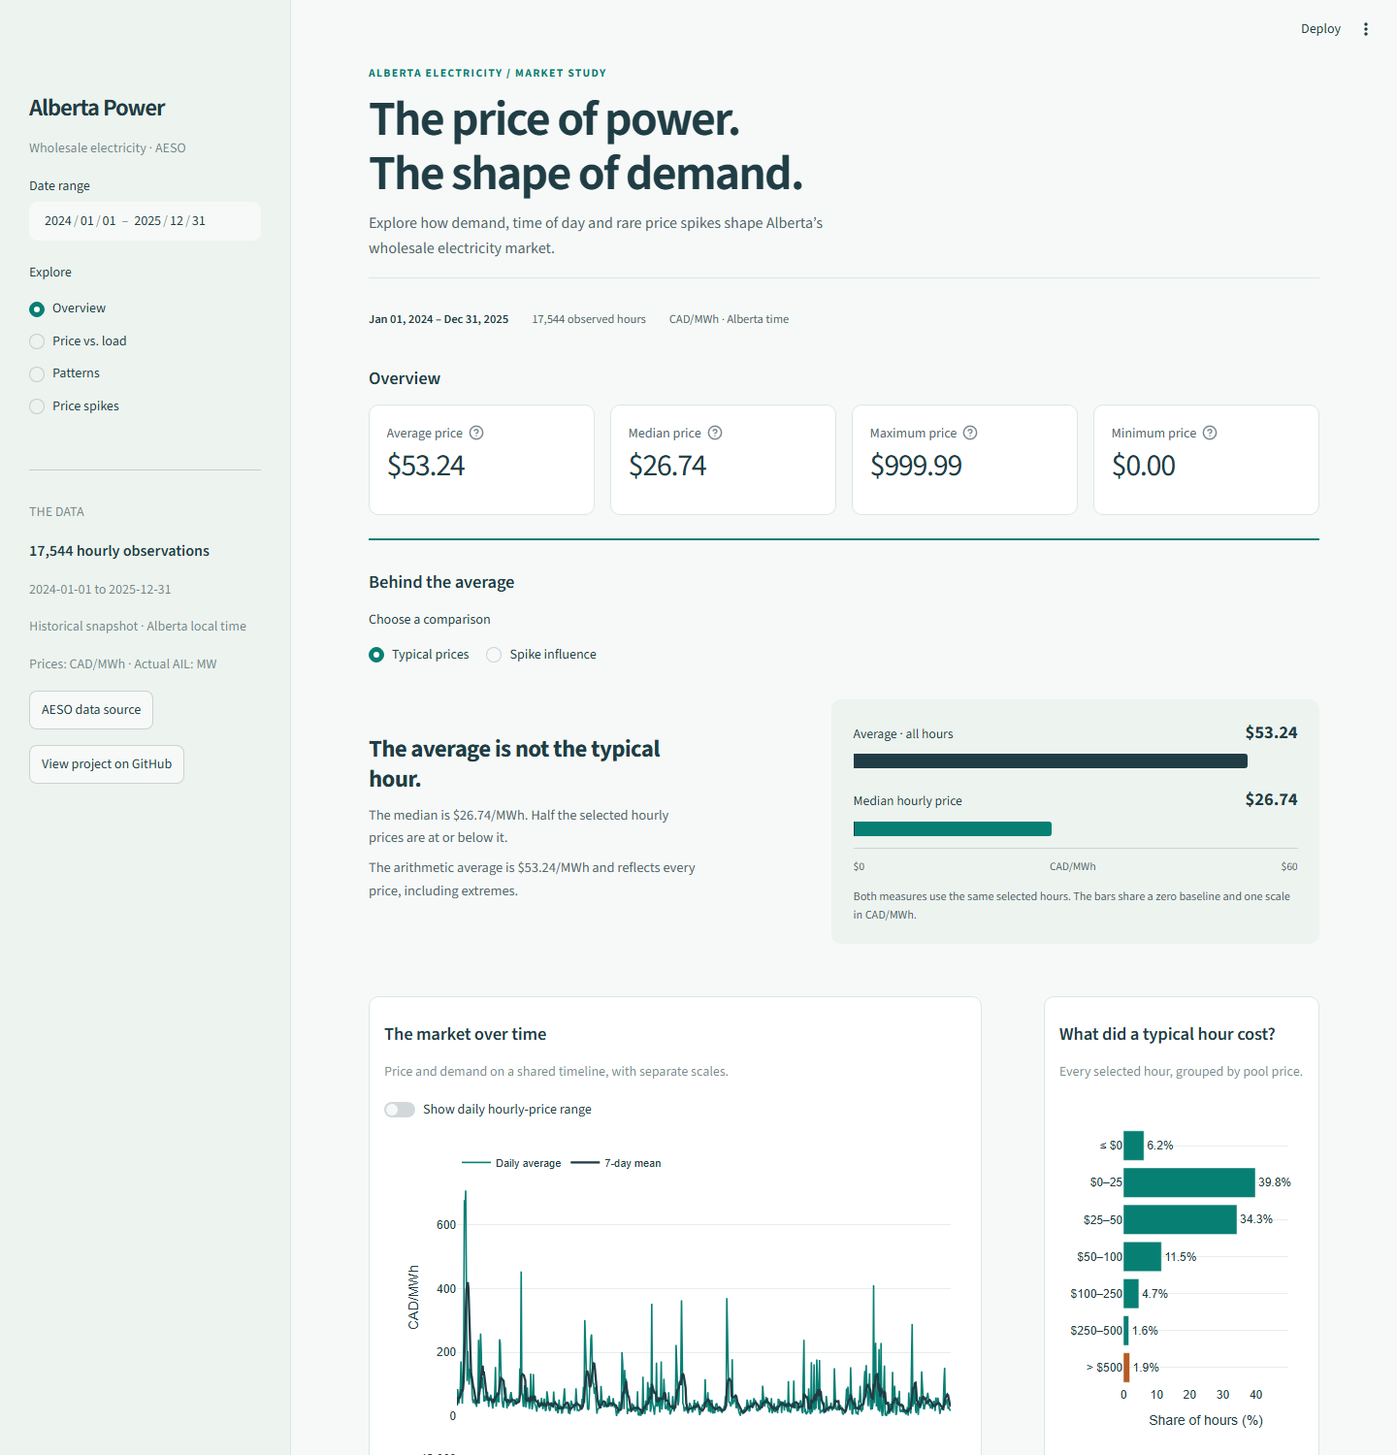
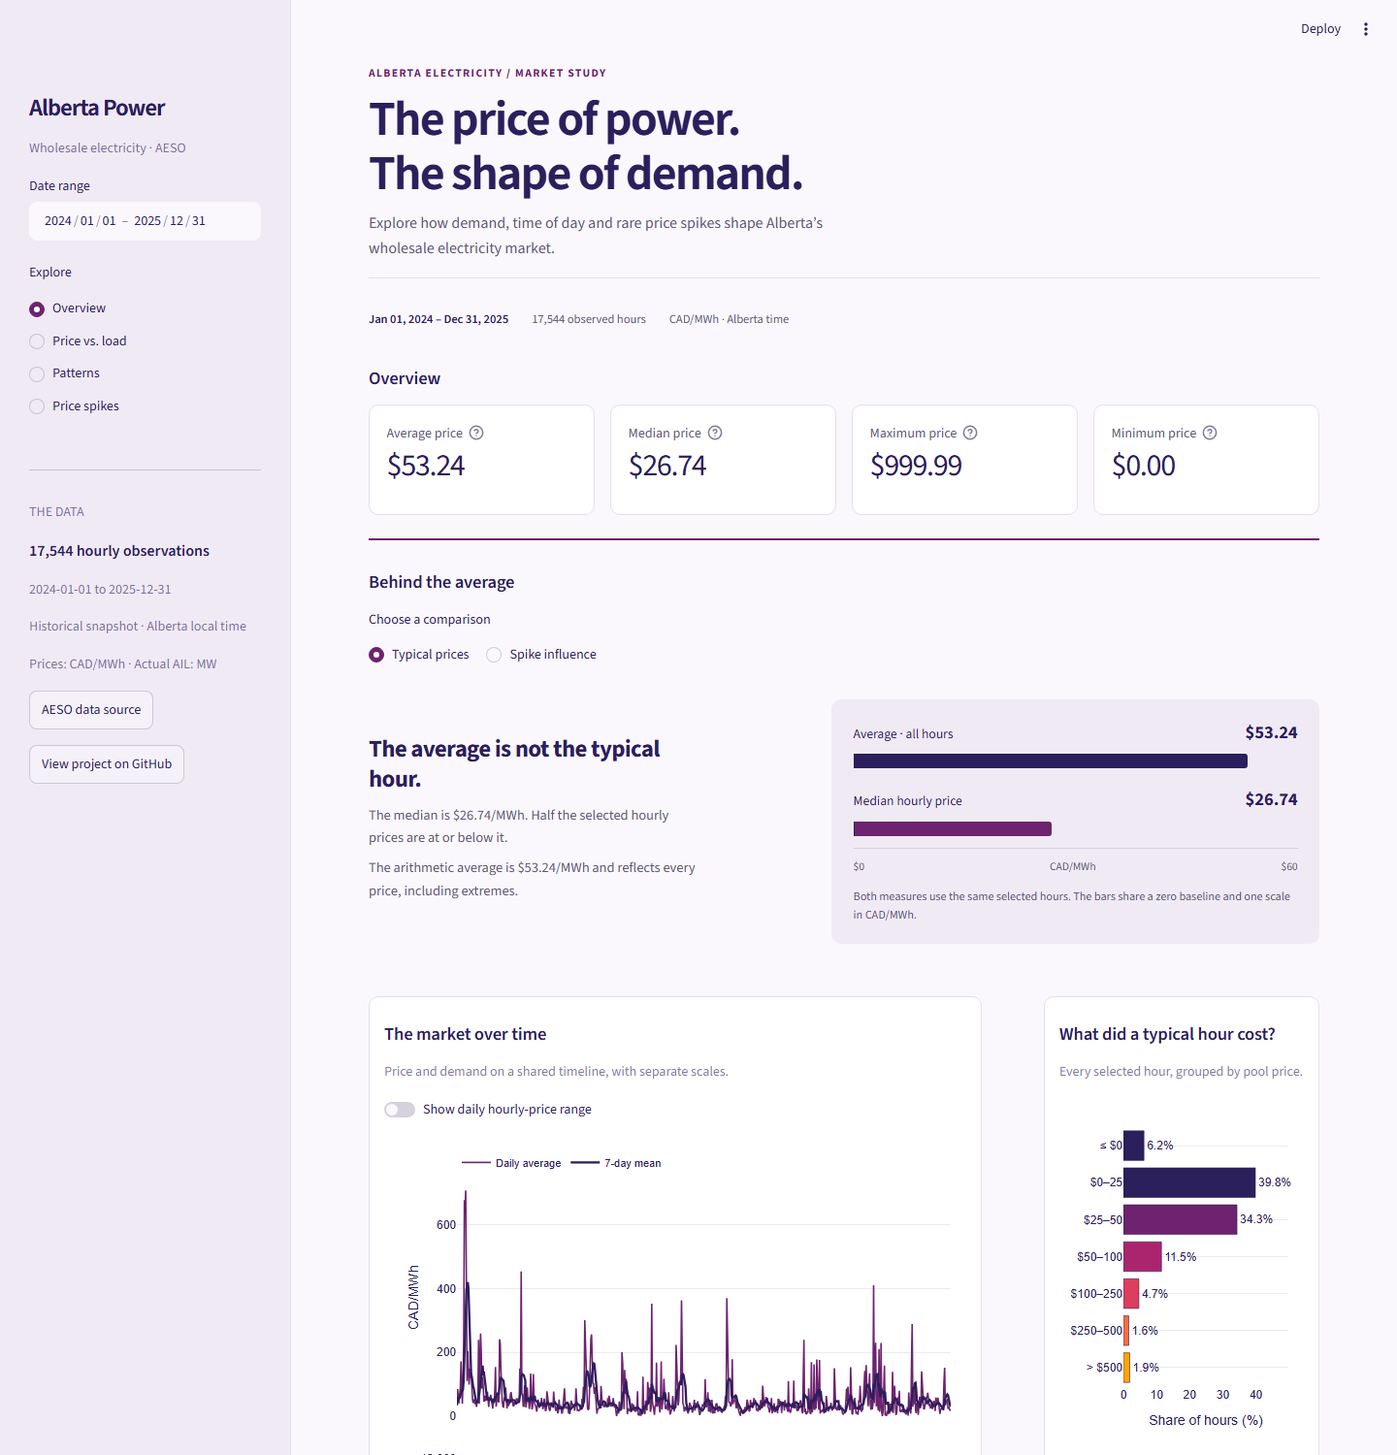
Apply purple-to-orange palette with accessible chart encodings

diff --git a/assets/style.css b/assets/style.css
@@ -1,9 +1,9 @@
 /* Streamlit-native presentation; no external fonts or JavaScript dependencies. */
-:root { --ink: #203d45; --accent: #087f73; --muted: #50686d; --line: #dbe7e2; --spike: #a84e1c; }
-.stApp { background: #f6f9f7; }
-[data-testid="stHeader"] { background: rgba(246,249,247,.96); }
+:root { --ink: #2b1f5c; --accent: #6d236f; --muted: #625575; --line: #e5deec; --spike: #ffa600; }
+.stApp { background: #faf8fc; }
+[data-testid="stHeader"] { background: rgba(250,248,252,.96); }
 [data-testid="stMainBlockContainer"] { max-width: 1500px; padding-top: 3.8rem; padding-bottom: 2rem; }
-[data-testid="stSidebar"] { background: #edf3ef; border-right: 1px solid var(--line); }
+[data-testid="stSidebar"] { background: #f0eaf5; border-right: 1px solid var(--line); }
 [data-testid="stSidebar"] h1 { font-size: 1.55rem; letter-spacing: -.04em; }
 [data-testid="stSidebar"] [data-testid="stRadio"] label { padding: .35rem 0; }
 h1, h2, h3 { color: var(--ink); letter-spacing: -.035em; }
@@ -19,7 +19,7 @@ h3 { font-size: 1.15rem !important; }
 [data-testid="stMetricLabel"] { color: var(--muted); font-size: .8rem; }
 [data-testid="stMetricValue"] { color: var(--ink); font-variant-numeric: tabular-nums; font-size: 2rem; letter-spacing: -.04em; }
 [data-testid="stVerticalBlock"]:has(> [data-testid="stElementContainer"] > [data-testid="stFullScreenFrame"] > [data-testid="stPlotlyChart"]) { background: #fff; border-color: var(--line); border-radius: 10px; }
-.finding { border-left: 3px solid var(--accent); padding: .8rem 1rem; margin: .25rem 0 .7rem; background: #eaf3ee; border-radius: 0 8px 8px 0; }
+.finding { border-left: 3px solid var(--accent); padding: .8rem 1rem; margin: .25rem 0 .7rem; background: #f0eaf5; border-radius: 0 8px 8px 0; }
 .finding p { margin: 0; font-size: .9rem; line-height: 1.65; color: var(--ink); }
 .finding strong { font-weight: 650; }
 .notes { display: grid; grid-template-columns: 1fr 1fr; gap: 0 2rem; }
@@ -31,7 +31,7 @@ h3 { font-size: 1.15rem !important; }
 .price-story { display: grid; grid-template-columns: 1fr 1.15fr; gap: 2.5rem; align-items: center; padding: .6rem 0 .4rem; }
 .story-copy h3 { font-size: 1.55rem !important; line-height: 1.25; letter-spacing: -.025em; padding: 0; margin: 0 0 .7rem; max-width: 26ch; }
 .story-copy p { color: var(--muted); font-size: .9rem; line-height: 1.6; margin: .5rem 0; max-width: 48ch; }
-.story-comparison { margin: 0; padding: 1.25rem 1.4rem; background: #edf3ef; border-radius: 10px; }
+.story-comparison { margin: 0; padding: 1.25rem 1.4rem; background: #f0eaf5; border-radius: 10px; }
 .story-row + .story-row { margin-top: 1.1rem; }
 .story-row-label { display: flex; justify-content: space-between; align-items: baseline; gap: 1rem; color: var(--ink); font-size: .85rem; margin-bottom: .45rem; }
 .story-row-label strong { font-size: 1.15rem; font-variant-numeric: tabular-nums; white-space: nowrap; }
@@ -39,8 +39,8 @@ h3 { font-size: 1.15rem !important; }
 .story-bar { display: block; height: 100%; border-radius: 0 3px 3px 0; }
 .story-bar--average { background: var(--ink); }
 .story-bar--typical { background: var(--accent); }
-.story-bar--spike { background: repeating-linear-gradient(135deg, #a84e1c 0, #a84e1c 5px, #873e16 5px, #873e16 7px); }
-.story-axis { display: flex; justify-content: space-between; color: var(--muted); font-size: .72rem; padding-top: .55rem; border-top: 1px solid #cad8d0; margin-top: .8rem; }
+.story-bar--spike { background: repeating-linear-gradient(135deg, #ffa600 0, #ffa600 5px, #2b1f5c 5px, #2b1f5c 7px); }
+.story-axis { display: flex; justify-content: space-between; color: var(--muted); font-size: .72rem; padding-top: .55rem; border-top: 1px solid #d7cce3; margin-top: .8rem; }
 .story-comparison figcaption { color: var(--muted); font-size: .76rem; line-height: 1.55; margin-top: .8rem; }
 @media (max-width: 767px) {
   [data-testid="stMainBlockContainer"] { padding: 3.8rem 1rem 1.6rem; }

diff --git a/src/charts.py b/src/charts.py
@@ -8,12 +8,12 @@ from plotly.subplots import make_subplots
 
 from src.analysis import daily_market, demand_bands, monthly_spikes, patterns, price_duration, relationship
 
-TEAL = "#087f73"
-INK = "#203d45"
-MUTED = "#60777c"
-AMBER = "#b65b22"
-PALE = "#d7ebe6"
-GRID = "#e6eeeb"
+PRIMARY = "#6d236f"
+INK = "#2b1f5c"
+MUTED = "#625575"
+SPIKE = "#ffa600"
+PRICE_SCALE = ["#2b1f5c", "#6d236f", "#ab256e", "#dd3e5d", "#fb6d3e", "#ffa600"]
+GRID = "#eee8f3"
 
 
 def style(fig, height=380):
@@ -23,7 +23,7 @@ def style(fig, height=380):
                       margin=dict(l=12, r=16, t=30, b=20),
                       legend=dict(orientation="h", y=1.12, x=0, font=dict(size=11)),
                       hoverlabel=dict(bgcolor="white", font_color=INK),
-                      colorway=[TEAL, AMBER, MUTED], dragmode=False)
+                      colorway=[PRIMARY, SPIKE, MUTED], dragmode=False)
     fig.update_xaxes(showgrid=False, zeroline=False, automargin=True)
     fig.update_yaxes(gridcolor=GRID, zeroline=False, automargin=True)
     return fig
@@ -34,9 +34,9 @@ def market_timeline(data, show_range=True):
     fig = make_subplots(rows=2, cols=1, shared_xaxes=True, vertical_spacing=0.1, row_heights=[0.70, 0.30])
     if show_range:
         fig.add_trace(go.Scatter(x=daily.date, y=daily.low, line=dict(width=0), showlegend=False, hoverinfo="skip"), row=1, col=1)
-        fig.add_trace(go.Scatter(x=daily.date, y=daily.high, fill="tonexty", fillcolor="rgba(8,127,115,0.10)",
+        fig.add_trace(go.Scatter(x=daily.date, y=daily.high, fill="tonexty", fillcolor="rgba(109,35,111,0.10)",
                                  line=dict(width=0), name="Hourly range", hovertemplate="Daily high: $%{y:.2f}<extra></extra>"), row=1, col=1)
-    fig.add_trace(go.Scatter(x=daily.date, y=daily["mean"], name="Daily average", line=dict(color=TEAL, width=1.6), hovertemplate="$%{y:.2f}/MWh<extra>Daily average</extra>"), row=1, col=1)
+    fig.add_trace(go.Scatter(x=daily.date, y=daily["mean"], name="Daily average", line=dict(color=PRIMARY, width=1.6), hovertemplate="$%{y:.2f}/MWh<extra>Daily average</extra>"), row=1, col=1)
     fig.add_trace(go.Scatter(x=daily.date, y=daily["rolling"], name="7-day mean", line=dict(color=INK, width=2.3), hovertemplate="$%{y:.2f}/MWh<extra>7-day mean</extra>"), row=1, col=1)
     fig.add_trace(go.Scatter(x=daily.date, y=daily.load, name="Daily AIL", line=dict(color=MUTED, width=1.5), showlegend=False,
                              hovertemplate="%{y:,.0f} MW<extra>Daily average load</extra>"), row=2, col=1)
@@ -54,7 +54,7 @@ def distribution(data):
     labels = ["≤ $0", "$0–25", "$25–50", "$50–100", "$100–250", "$250–500", "> $500"]
     counts = pd.cut(p, bins=bins, labels=labels).value_counts(sort=False)
     share = counts / len(data) * 100
-    fig = go.Figure(go.Bar(x=share, y=labels, orientation="h", marker_color=[AMBER if i == 6 else TEAL for i in range(7)],
+    fig = go.Figure(go.Bar(x=share, y=labels, orientation="h", marker=dict(color=[PRICE_SCALE[max(0, i - 1)] for i in range(7)], line=dict(color=INK, width=0.6)),
                            text=[f"{v:.1f}%" for v in share], textposition="outside", cliponaxis=False,
                            customdata=counts, hovertemplate="%{y}/MWh<br>%{customdata:,} hours · %{x:.2f}%<extra></extra>"))
     fig.update_yaxes(autorange="reversed")
@@ -65,11 +65,11 @@ def distribution(data):
 def price_load(data):
     correlation, line = relationship(data)
     fig = go.Figure()
-    for mask, name, color, opacity in [(data.pool_price_cad_mwh <= 500, "≤ $500/MWh", TEAL, 0.20),
-                                       (data.pool_price_cad_mwh > 500, "> $500/MWh", AMBER, 0.65)]:
+    for mask, name, color, opacity in [(data.pool_price_cad_mwh <= 500, "≤ $500/MWh", PRIMARY, 0.20),
+                                       (data.pool_price_cad_mwh > 500, "> $500/MWh", SPIKE, 0.65)]:
         d = data.loc[mask]
         fig.add_trace(go.Scattergl(x=d.ail_mw, y=d.pool_price_cad_mwh, mode="markers", name=name,
-                                   marker=dict(size=4, color=color, opacity=opacity), customdata=d.timestamp_alberta,
+                                   marker=dict(size=5 if name.startswith(">") else 4, symbol="diamond" if name.startswith(">") else "circle", color=color, opacity=0.95 if name.startswith(">") else opacity, line=dict(color=INK, width=0.6 if name.startswith(">") else 0)), customdata=d.timestamp_alberta,
                                    hovertemplate="%{customdata}<br>%{x:,.0f} MW · $%{y:.2f}/MWh<extra></extra>"))
     if not line.empty:
         fig.add_trace(go.Scatter(x=line.ail_mw, y=line.pool_price_cad_mwh, name="Linear trend", mode="lines", line=dict(color=INK, width=2.5)))
@@ -83,12 +83,12 @@ def demand_comparison(data, risk=False):
     ranges = [f"{row.load_min:,.0f}–{row.load_max:,.0f} MW" for row in bands.itertuples()]
     fig = go.Figure()
     if risk:
-        fig.add_trace(go.Bar(x=bands.band, y=bands.spike_percent, marker_color=AMBER, customdata=ranges,
+        fig.add_trace(go.Bar(x=bands.band, y=bands.spike_percent, marker=dict(color=SPIKE, line=dict(color=INK, width=0.7), pattern=dict(shape="/", fgcolor=INK, solidity=0.12)), customdata=ranges,
                              text=[f"{v:.2f}%" for v in bands.spike_percent], textposition="outside", cliponaxis=False,
                              hovertemplate="%{customdata}<br>%{y:.2f}% of hours > $500<extra></extra>"))
         fig.update_yaxes(title="Hours above $500 (%)", range=[0, max(1, bands.spike_percent.max() * 1.25)])
     else:
-        for column, name, color in [("mean", "Average", TEAL), ("median", "Median", MUTED)]:
+        for column, name, color in [("mean", "Average", PRIMARY), ("median", "Median", MUTED)]:
             fig.add_trace(go.Scatter(x=bands.band, y=bands[column], mode="lines+markers", name=name,
                                      line=dict(color=color, width=2), marker=dict(size=8), customdata=ranges,
                                      hovertemplate="%{customdata}<br>$%{y:.2f}/MWh<extra>" + name + "</extra>"))
@@ -100,11 +100,11 @@ def demand_comparison(data, risk=False):
 def hourly_profile(data):
     p = data.groupby("hour").pool_price_cad_mwh.agg(["mean", "median"]).reindex(range(24))
     fig = go.Figure()
-    for col, title, color in [("mean", "Average", TEAL), ("median", "Median", MUTED)]:
+    for col, title, color in [("mean", "Average", PRIMARY), ("median", "Median", MUTED)]:
         fig.add_trace(go.Scatter(x=p.index, y=p[col], mode="lines+markers", name=title, line=dict(color=color, width=2.5),
                                  marker=dict(size=5), hovertemplate="%{x:02d}:00<br>$%{y:.2f}/MWh<extra>" + title + "</extra>"))
     hour = p["mean"].idxmax()
-    fig.add_trace(go.Scatter(x=[hour], y=[p.loc[hour, "mean"]], mode="markers", marker=dict(size=11, color=AMBER),
+    fig.add_trace(go.Scatter(x=[hour], y=[p.loc[hour, "mean"]], mode="markers", marker=dict(size=11, color=SPIKE, symbol="diamond", line=dict(color=INK, width=1)),
                              name="Highest average", hovertemplate="%{x:02d}:00 · $%{y:.2f}/MWh<extra></extra>"))
     fig.update_xaxes(title="Hour beginning · Alberta time", tickvals=[0, 4, 8, 12, 16, 20, 23])
     fig.update_yaxes(title="Price (CAD/MWh)", rangemode="tozero")
@@ -118,7 +118,7 @@ def monthly_profile(data):
     for i, y in enumerate(sorted(year.unique())):
         values = frame.loc[y].reindex(range(1, 13))
         fig.add_trace(go.Bar(x=[calendar.month_abbr[m] for m in values.index], y=values, name=str(y),
-                             marker_color=[TEAL, MUTED, AMBER][i % 3], hovertemplate="%{x}<br>$%{y:.2f}/MWh<extra>" + str(y) + "</extra>"))
+                             marker_color=[PRIMARY, MUTED, SPIKE][i % 3], hovertemplate="%{x}<br>$%{y:.2f}/MWh<extra>" + str(y) + "</extra>"))
     fig.update_layout(barmode="group")
     fig.update_yaxes(title="Average price (CAD/MWh)", rangemode="tozero")
     return style(fig, 340)
@@ -127,7 +127,7 @@ def monthly_profile(data):
 def season_heatmap(data):
     _, _, heat = patterns(data)
     fig = go.Figure(go.Heatmap(z=heat.values, x=[calendar.month_abbr[m] for m in heat.columns], y=[f"{h:02d}:00" for h in heat.index],
-                              colorscale=[[0, "#f0f6f3"], [0.3, "#a5d5c7"], [0.65, TEAL], [1, "#143e38"]],
+                              colorscale=[[i / 5, color] for i, color in enumerate(PRICE_SCALE)],
                               xgap=3, ygap=3, colorbar=dict(title="CAD/MWh", thickness=12), hoverongaps=False,
                               hovertemplate="%{x} · %{y}<br>Average $%{z:.2f}/MWh<extra></extra>"))
     fig.update_yaxes(autorange="reversed", title="Hour beginning · Alberta time", dtick=2)
@@ -138,7 +138,7 @@ def season_heatmap(data):
 def spike_frequency(data, percent=True):
     frame = monthly_spikes(data)
     y = frame.percent if percent else frame.spikes
-    fig = go.Figure(go.Bar(x=frame.period, y=y, marker_color=AMBER,
+    fig = go.Figure(go.Bar(x=frame.period, y=y, marker=dict(color=SPIKE, line=dict(color=INK, width=0.7), pattern=dict(shape="/", fgcolor=INK, solidity=0.12)),
                            customdata=frame[["spikes", "hours", "percent"]],
                            hovertemplate="%{x}<br>%{customdata[0]:,} spike hours / %{customdata[1]:,} observed<br>%{customdata[2]:.2f}%<extra></extra>"))
     fig.update_yaxes(title="Share of observed hours (%)" if percent else "Hours above $500/MWh", rangemode="tozero")
@@ -147,9 +147,9 @@ def spike_frequency(data, percent=True):
 
 def duration_curve(data):
     frame = price_duration(data)
-    fig = go.Figure(go.Scatter(x=frame.share, y=frame.pool_price_cad_mwh, mode="lines", line=dict(color=TEAL, width=2.5),
+    fig = go.Figure(go.Scatter(x=frame.share, y=frame.pool_price_cad_mwh, mode="lines", line=dict(color=PRIMARY, width=2.5),
                                hovertemplate="Top %{x:.2f}% of hours<br>$%{y:.2f}/MWh<extra></extra>"))
-    fig.add_hline(y=500, line_dash="dot", line_color=AMBER, annotation_text="$500 spike threshold", annotation_position="top right")
+    fig.add_hline(y=500, line_dash="dot", line_color=SPIKE, annotation_text="$500 spike threshold", annotation_position="top right")
     fig.update_xaxes(title="Cumulative share of hours, highest price first (%)", range=[0, 100])
     fig.update_yaxes(title="Price (CAD/MWh)", rangemode="tozero")
     return style(fig, 340)

diff --git a/app.py b/app.py
@@ -1,4 +1,4 @@
-"""Run with: streamlit run app.py."""
+"""Run with: streamlit run app.py."""
 import calendar
 from html import escape
 import json
@@ -122,7 +122,7 @@ elif page == "Price vs. load":
     c.metric("Highest demand band · avg price", f"${last['mean']:,.2f}")
     with st.container(border=True):
         st.subheader("Does higher demand mean higher prices?")
-        st.caption("One dot per hour. Price spikes are highlighted in amber; the line is an ordinary least-squares fit.")
+        st.caption("One dot per hour. Price spikes are highlighted with orange diamonds; the line is an ordinary least-squares fit.")
         chart(charts.price_load(selected), "price_load")
     left, right = st.columns(2, gap="large")
     with left, st.container(border=True):
@@ -153,7 +153,7 @@ elif page == "Patterns":
         chart(charts.monthly_profile(selected), "monthly_profile")
     with st.container(border=True):
         st.subheader("When expensive hours cluster")
-        st.caption("Average pool price by month and hour. Darker cells indicate higher prices.")
+        st.caption("Average pool price by month and hour. Colour moves from deep purple at lower prices to orange at higher prices.")
         chart(charts.season_heatmap(selected), "season_heatmap")
     st.caption("The heatmap and hourly profile pool all selected years. Blank cells mean no observations. Partial months include only selected dates. Both repeated autumn hours count; the skipped spring hour has no observation.")
 
@@ -178,7 +178,7 @@ else:
         with st.container(border=True):
             st.subheader("Where spikes happened")
             fig = go.Figure(go.Scatter(x=events.timestamp_utc, y=events.pool_price_cad_mwh, mode="markers",
-                marker=dict(color=charts.AMBER, size=6, opacity=.7), customdata=events[["timestamp_alberta", "ail_mw"]],
+                marker=dict(color=charts.SPIKE, size=6, opacity=.95, symbol="diamond", line=dict(color=charts.INK, width=.7)), customdata=events[["timestamp_alberta", "ail_mw"]],
                 hovertemplate="%{customdata[0]}<br>$%{y:.2f}/MWh · %{customdata[1]:,.0f} MW<extra></extra>"))
             fig.update_xaxes(title="Time (UTC; hover for Alberta time)")
             fig.update_yaxes(title="Price (CAD/MWh)")

diff --git a/docs/design.md b/docs/design.md
@@ -1,6 +1,6 @@
 # Dashboard design notes
 
-This is an analytical portfolio project for energy internship recruiters. The redesign keeps the Python / Streamlit / Plotly stack and the four original pages, with a light surface, a consistent teal accent, dark text, and amber reserved for price spikes and highlighted observations. Motion is limited to normal control feedback; the data stays still while readers inspect it.
+This is an analytical portfolio project for energy internship recruiters. The redesign keeps the Python / Streamlit / Plotly stack and the four original pages, with a light surface, a consistent plum accent, dark text, and orange reserved for price spikes and highlighted observations. Motion is limited to normal control feedback; the data stays still while readers inspect it.
 
 ## References and scope
 
@@ -25,6 +25,10 @@ Validation: pytest includes pure-analysis cases, data integrity checks and a rea
 
 The “Behind the average” comparison follows the hierarchy and semantic-colour principles in [Impeccable's colorize guidance](https://github.com/pbakaus/impeccable/blob/main/skill/reference/colorize.md). Impeccable is used as a design reference, not a runtime component library. The original Streamlit stack is preserved.
 
-Cool teal identifies the median or non-spike comparison; ink represents the overall average in the typical-price view. Warm amber, a contrasting hue, is restricted to the overall-average bar when discussing spike influence. Diagonal stripes, direct labels and numerical values provide redundant cues. Colour indicates which quantity is being discussed, not whether a price is morally “good” or “bad.” Muted green surfaces group the comparison with low visual noise, while dark text carries the explanation.
+Cool plum identifies the median or non-spike comparison; ink represents the overall average in the typical-price view. Warm orange, a contrasting hue, is restricted to the overall-average bar when discussing spike influence. Diagonal stripes, direct labels and numerical values provide redundant cues. Colour indicates which quantity is being discussed, not whether a price is morally “good” or “bad.” Pale lavender surfaces group the comparison with low visual noise, while dark text carries the explanation.
 
 The two bars have a shared zero baseline and scale. Every number updates with the date filter. Excluding hours strictly above $500/MWh is labelled as a descriptive calculation, not a counterfactual. No-spike and all-spike selections have explicit text states. Native radio controls support keyboard use; the comparison becomes a single column on phones. The component has no animation or new external dependencies.
+
+## User-selected purple-to-orange palette
+
+The six supplied colours are `#2b1f5c`, `#6d236f`, `#ab256e`, `#dd3e5d`, `#fb6d3e`, and `#ffa600`. Deep purple anchors text and trend lines; plum identifies primary controls and price series. The full ordered ramp encodes increasing prices in the distribution and heatmap, with the scale explicitly labelled. Pale lavender neutrals provide background separation without competing with the data. Orange spike marks have dark outlines or stripes, and scatter spikes use diamonds, so the low contrast of orange against white does not erase boundaries or make colour the only signal. Small text remains dark purple or muted purple, never orange on white.

diff --git a/README.md b/README.md
@@ -93,4 +93,4 @@ docs/dashboard.png    Actual local dashboard screenshot
 
 The visual refresh uses Plotly from the [Awesome Dataviz](https://github.com/hal9ai/awesome-dataviz) catalog. The locally installed [Taste skill](https://github.com/Leonxlnx/taste-skill) informed the introductory presentation; its current version excludes dashboards, so the analytical interface stays native to Streamlit. See [design notes](docs/design.md) for chart choices and scope. No Node.js or frontend skill package is needed to run the app.
 
-The overview's interactive **Behind the average** component applies [Impeccable's colour guidance](https://github.com/pbakaus/impeccable/blob/main/skill/reference/colorize.md): teal for the comparison, restrained amber for spike influence, and direct labels plus a stripe pattern so meaning does not rely on colour alone. Switch between median-versus-average and the average excluding hours above $500/MWh. In the full snapshot, excluding those 333 observed hours yields an average of **$39.42/MWh** across the remaining 17,211 hours. This is a descriptive subset calculation, not a counterfactual market forecast.
+The overview's interactive **Behind the average** component applies [Impeccable's colour guidance](https://github.com/pbakaus/impeccable/blob/main/skill/reference/colorize.md): plum for the comparison, restrained orange for spike influence, and direct labels plus a stripe pattern so meaning does not rely on colour alone. Switch between median-versus-average and the average excluding hours above $500/MWh. In the full snapshot, excluding those 333 observed hours yields an average of **$39.42/MWh** across the remaining 17,211 hours. This is a descriptive subset calculation, not a counterfactual market forecast.
